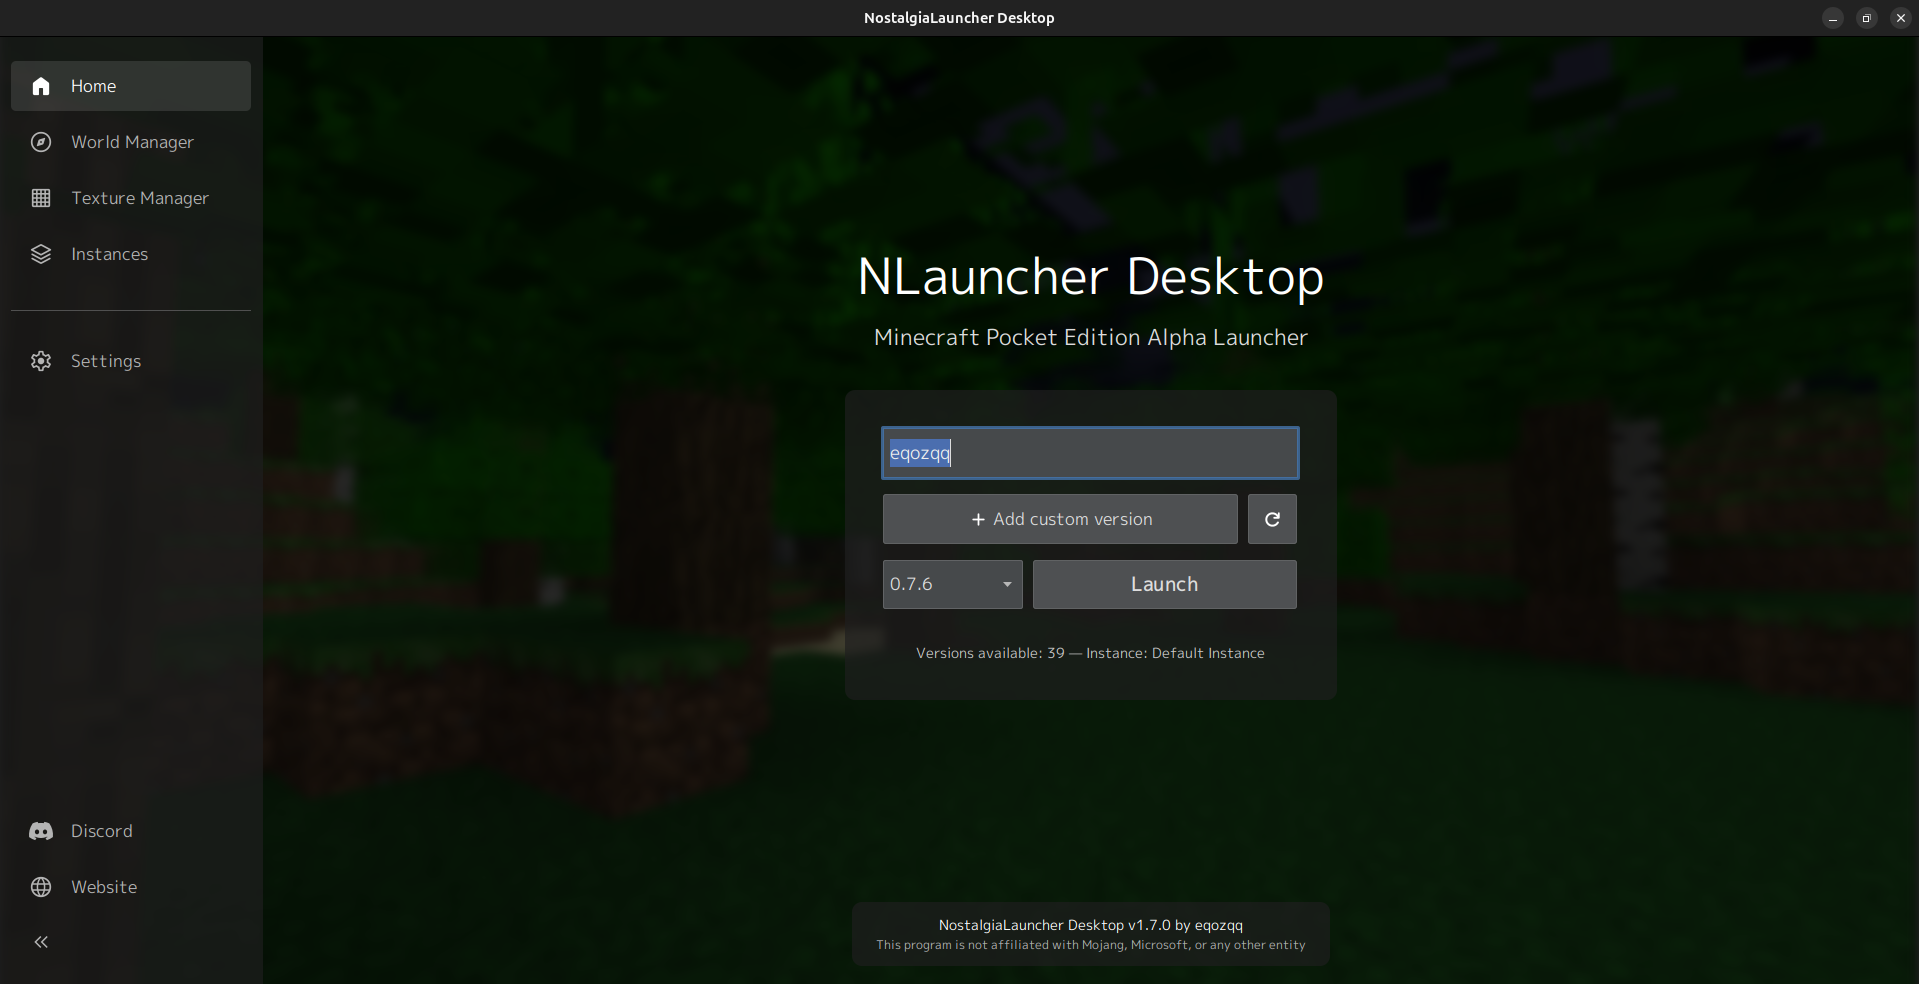
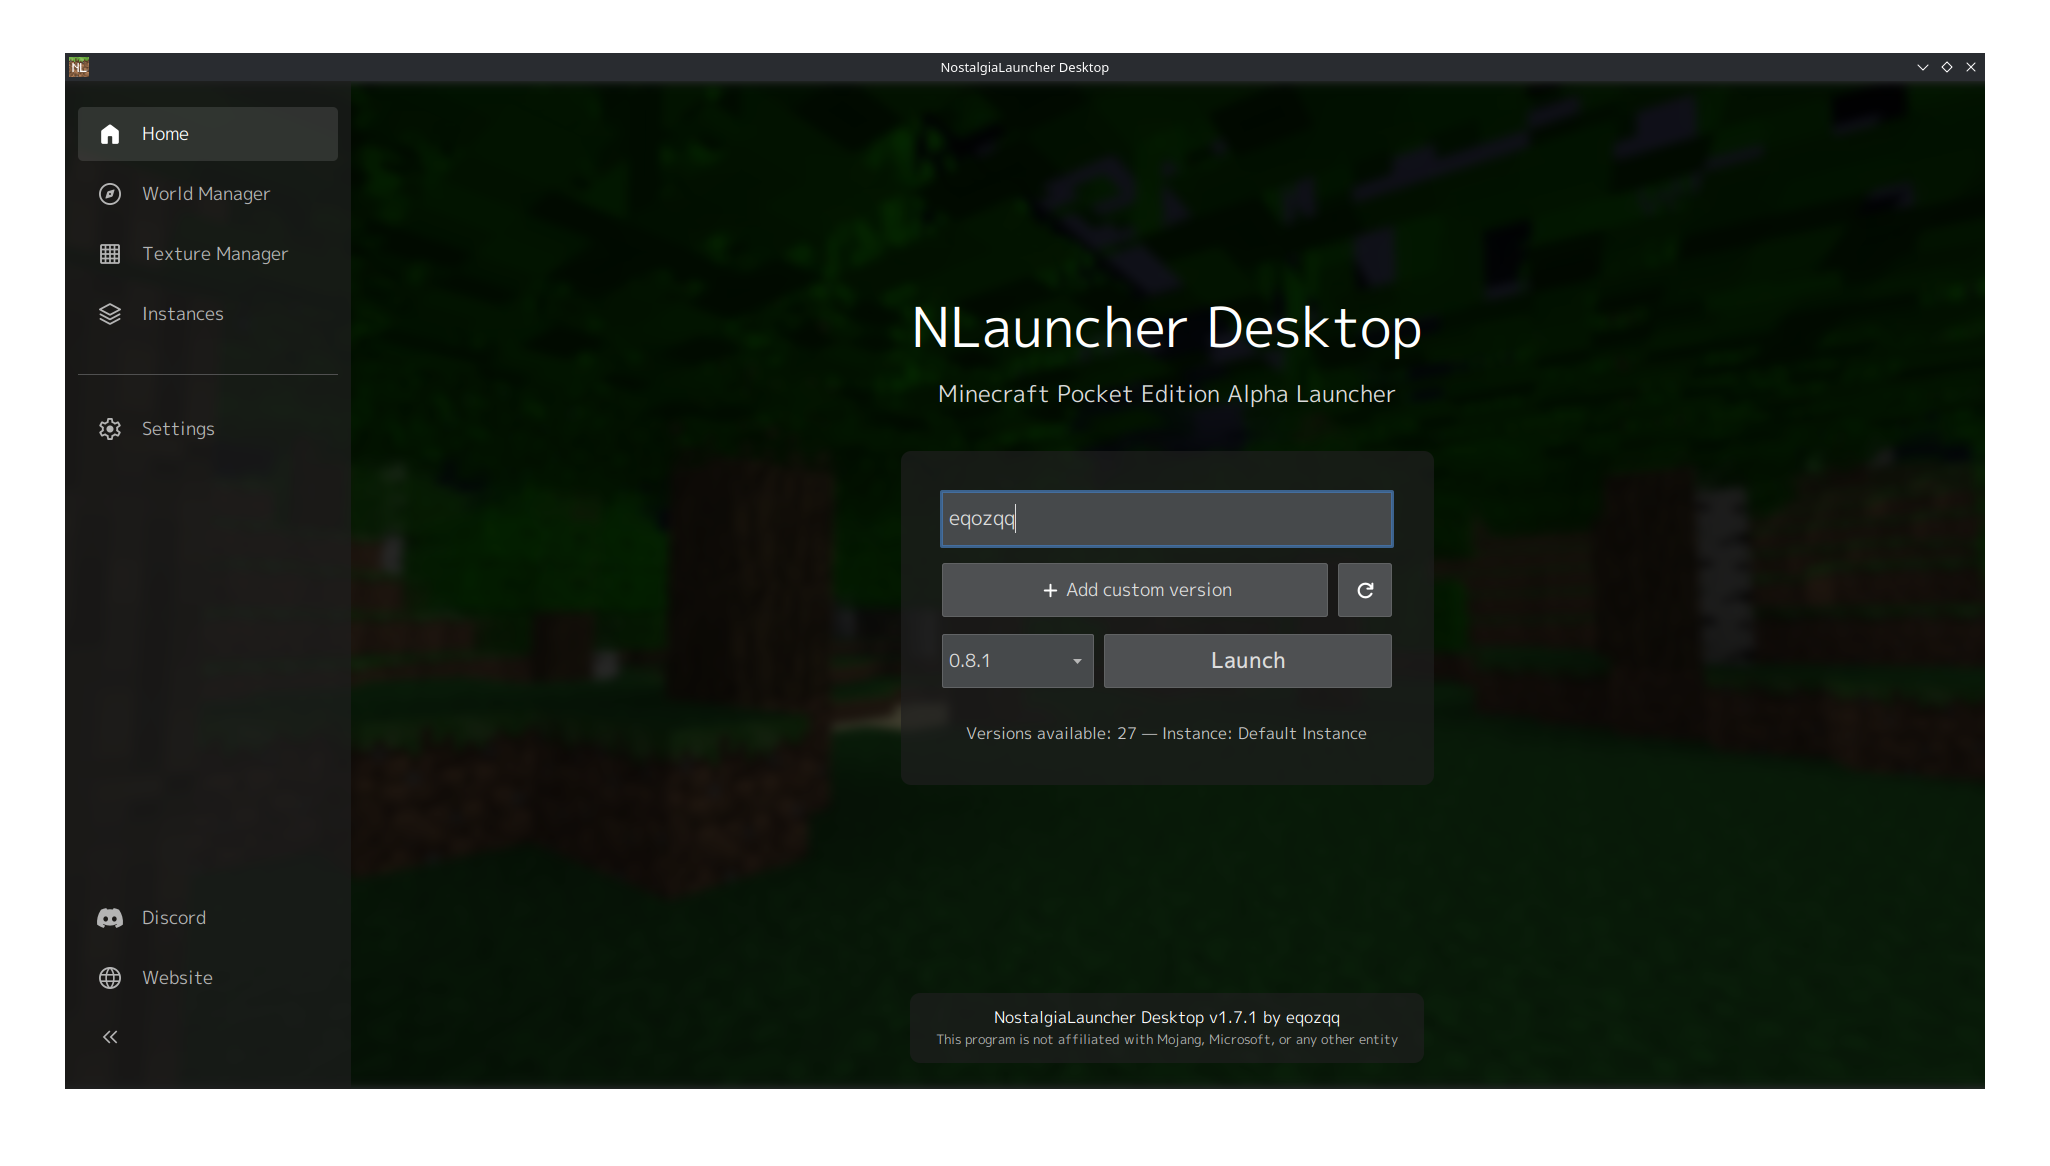
1.7.1

diff --git a/src/main/java/net/eqozqq/nostalgialauncherdesktop/TexturesManager/TexturesManagerPanel.java b/src/main/java/net/eqozqq/nostalgialauncherdesktop/TexturesManager/TexturesManagerPanel.java
@@ -9,7 +9,6 @@ import java.util.Arrays;
 import java.util.List;
 
 import net.eqozqq.nostalgialauncherdesktop.LocaleManager;
-import net.eqozqq.nostalgialauncherdesktop.StyledDialog;
 import net.eqozqq.nostalgialauncherdesktop.Version;
 import net.eqozqq.nostalgialauncherdesktop.VersionManager;
 import net.eqozqq.nostalgialauncherdesktop.Instances.InstanceManager;
@@ -112,8 +111,10 @@ public class TexturesManagerPanel extends JPanel {
             if (selectedVersion != null) {
                 cardLayout.show(contentPanel, "TEXTURE_PANEL");
             } else {
-                StyledDialog.showMessage(this, localeManager.get("error.noVersionSelected.textures"),
-                        localeManager.get("error.noVersionSelected.title"), JOptionPane.WARNING_MESSAGE);
+                JOptionPane.showMessageDialog(this, 
+                        localeManager.get("error.noVersionSelected.textures"),
+                        localeManager.get("error.noVersionSelected.title"), 
+                        JOptionPane.WARNING_MESSAGE);
             }
         });
 
@@ -202,19 +203,26 @@ public class TexturesManagerPanel extends JPanel {
     private void unpackTextures() {
         String path = archivePathField.getText();
         if (path.isEmpty()) {
-            StyledDialog.showMessage(this, localeManager.get("error.noArchiveSelected.message"),
-                    localeManager.get("error.noArchiveSelected.title"), JOptionPane.WARNING_MESSAGE);
+            JOptionPane.showMessageDialog(this, 
+                    localeManager.get("error.noArchiveSelected.message"),
+                    localeManager.get("error.noArchiveSelected.title"), 
+                    JOptionPane.WARNING_MESSAGE);
             return;
         }
         try {
             File archiveFile = new File(path);
             File versionDir = new File(InstanceManager.getInstance().resolvePath("versions/" + selectedVersion));
             ArchiveExtractor.extract(archiveFile, versionDir);
-            StyledDialog.showMessage(this, localeManager.get("info.texturesInstalled"),
-                    localeManager.get("dialog.success.title"), JOptionPane.INFORMATION_MESSAGE);
+            
+            JOptionPane.showMessageDialog(this, 
+                    localeManager.get("info.texturesInstalled"),
+                    localeManager.get("dialog.success.title"), 
+                    JOptionPane.INFORMATION_MESSAGE);
         } catch (Exception ex) {
-            StyledDialog.showMessage(this, localeManager.get("error.installTexturesFailed", ex.getMessage()),
-                    localeManager.get("dialog.error.title"), JOptionPane.ERROR_MESSAGE);
+            JOptionPane.showMessageDialog(this, 
+                    localeManager.get("error.installTexturesFailed", ex.getMessage()),
+                    localeManager.get("dialog.error.title"), 
+                    JOptionPane.ERROR_MESSAGE);
             ex.printStackTrace();
         }
     }
@@ -233,13 +241,18 @@ public class TexturesManagerPanel extends JPanel {
                     .orElse(null);
 
             if (targetVersion == null || targetVersion.getUrl().startsWith("file:")) {
-                StyledDialog.showMessage(this, localeManager.get("error.restoreOfficialOnly"),
-                        localeManager.get("error.cannotRestore.title"), JOptionPane.WARNING_MESSAGE);
+                JOptionPane.showMessageDialog(this, 
+                        localeManager.get("error.restoreOfficialOnly"),
+                        localeManager.get("error.cannotRestore.title"), 
+                        JOptionPane.WARNING_MESSAGE);
                 return;
             }
 
-            int choice = StyledDialog.showConfirm(this, localeManager.get("dialog.confirmRestore.message"),
-                    localeManager.get("dialog.confirmRestore.title"), JOptionPane.YES_NO_OPTION);
+            int choice = JOptionPane.showConfirmDialog(this, 
+                    localeManager.get("dialog.confirmRestore.message"),
+                    localeManager.get("dialog.confirmRestore.title"), 
+                    JOptionPane.YES_NO_OPTION);
+            
             if (choice != JOptionPane.YES_OPTION)
                 return;
 
@@ -274,13 +287,15 @@ public class TexturesManagerPanel extends JPanel {
                     progressMonitor.close();
                     try {
                         get();
-                        StyledDialog.showMessage(TexturesManagerPanel.this,
-                                localeManager.get("info.restoreSuccess"), localeManager.get("dialog.success.title"),
+                        JOptionPane.showMessageDialog(TexturesManagerPanel.this,
+                                localeManager.get("info.restoreSuccess"), 
+                                localeManager.get("dialog.success.title"),
                                 JOptionPane.INFORMATION_MESSAGE);
                     } catch (Exception ex) {
-                        StyledDialog.showMessage(TexturesManagerPanel.this,
+                        JOptionPane.showMessageDialog(TexturesManagerPanel.this,
                                 localeManager.get("error.restoreFailed", ex.getMessage()),
-                                localeManager.get("dialog.error.title"), JOptionPane.ERROR_MESSAGE);
+                                localeManager.get("dialog.error.title"), 
+                                JOptionPane.ERROR_MESSAGE);
                         ex.printStackTrace();
                     }
                 }
@@ -288,8 +303,10 @@ public class TexturesManagerPanel extends JPanel {
             worker.execute();
 
         } catch (Exception ex) {
-            StyledDialog.showMessage(this, localeManager.get("error.restoreFailed", ex.getMessage()),
-                    localeManager.get("dialog.error.title"), JOptionPane.ERROR_MESSAGE);
+            JOptionPane.showMessageDialog(this, 
+                    localeManager.get("error.restoreFailed", ex.getMessage()),
+                    localeManager.get("dialog.error.title"), 
+                    JOptionPane.ERROR_MESSAGE);
             ex.printStackTrace();
         }
     }

diff --git a/src/main/java/net/eqozqq/nostalgialauncherdesktop/WorldManager/WorldsManagerPanel.java b/src/main/java/net/eqozqq/nostalgialauncherdesktop/WorldManager/WorldsManagerPanel.java
@@ -21,7 +21,6 @@ import java.util.Date;
 import java.util.zip.ZipEntry;
 import java.util.zip.ZipOutputStream;
 import net.eqozqq.nostalgialauncherdesktop.LocaleManager;
-import net.eqozqq.nostalgialauncherdesktop.StyledDialog;
 import net.eqozqq.nostalgialauncherdesktop.Instances.InstanceManager;
 import org.apache.commons.io.FileUtils;
 import org.spout.nbt.CompoundTag;
@@ -198,7 +197,7 @@ public class WorldsManagerPanel extends JPanel {
         copySeedButton.addActionListener(e -> {
             StringSelection stringSelection = new StringSelection(seedField.getText());
             Toolkit.getDefaultToolkit().getSystemClipboard().setContents(stringSelection, null);
-            StyledDialog.showMessage(this, localeManager.get("info.seedCopied.message"),
+            JOptionPane.showMessageDialog(this, localeManager.get("info.seedCopied.message"),
                     localeManager.get("dialog.success.title"), JOptionPane.INFORMATION_MESSAGE);
         });
         panel.add(copySeedButton, gbc);
@@ -331,7 +330,7 @@ public class WorldsManagerPanel extends JPanel {
         } catch (Exception e) {
             e.printStackTrace();
             infoPanel.setVisible(false);
-            StyledDialog.showMessage(this, localeManager.get("error.readWorldData"),
+            JOptionPane.showMessageDialog(this, localeManager.get("error.readWorldData"),
                     localeManager.get("dialog.error.title"), JOptionPane.ERROR_MESSAGE);
         }
     }
@@ -379,14 +378,14 @@ public class WorldsManagerPanel extends JPanel {
             writeLevelDat(rootTag, levelDat);
 
             populateInfoPanel();
-            StyledDialog.showMessage(this, localeManager.get("info.worldSaved"),
+            JOptionPane.showMessageDialog(this, localeManager.get("info.worldSaved"),
                     localeManager.get("dialog.success.title"), JOptionPane.INFORMATION_MESSAGE);
 
         } catch (NumberFormatException ex) {
-            StyledDialog.showMessage(this, localeManager.get("error.invalidNumberFormat"),
+            JOptionPane.showMessageDialog(this, localeManager.get("error.invalidNumberFormat"),
                     localeManager.get("dialog.error.title"), JOptionPane.ERROR_MESSAGE);
         } catch (IOException ex) {
-            StyledDialog.showMessage(this, localeManager.get("error.saveWorldData", ex.getMessage()),
+            JOptionPane.showMessageDialog(this, localeManager.get("error.saveWorldData", ex.getMessage()),
                     localeManager.get("dialog.error.title"), JOptionPane.ERROR_MESSAGE);
             ex.printStackTrace();
         }
@@ -430,19 +429,25 @@ public class WorldsManagerPanel extends JPanel {
         if (selectedWorld == null)
             return;
 
-        String newName = StyledDialog.showInput(this, localeManager.get("dialog.renameFolder.message"),
-                localeManager.get("dialog.renameFolder.title"), JOptionPane.QUESTION_MESSAGE, selectedWorld.getName());
+        String newName = (String) JOptionPane.showInputDialog(this, 
+                localeManager.get("dialog.renameFolder.message"),
+                localeManager.get("dialog.renameFolder.title"), 
+                JOptionPane.QUESTION_MESSAGE, 
+                null, 
+                null, 
+                selectedWorld.getName());
+        
         if (newName != null && !newName.trim().isEmpty() && !newName.equals(selectedWorld.getName())) {
             File newFile = new File(selectedWorld.getParent(), newName.trim());
             if (newFile.exists()) {
-                StyledDialog.showMessage(this, localeManager.get("error.folderExists"),
+                JOptionPane.showMessageDialog(this, localeManager.get("error.folderExists"),
                         localeManager.get("dialog.error.title"), JOptionPane.ERROR_MESSAGE);
                 return;
             }
             if (selectedWorld.renameTo(newFile)) {
                 loadWorlds();
             } else {
-                StyledDialog.showMessage(this, localeManager.get("error.renameFolderFailed"),
+                JOptionPane.showMessageDialog(this, localeManager.get("error.renameFolderFailed"),
                         localeManager.get("dialog.error.title"), JOptionPane.ERROR_MESSAGE);
             }
         }
@@ -489,10 +494,10 @@ public class WorldsManagerPanel extends JPanel {
 
         try {
             zipDirectory(selectedWorld, zipFile);
-            StyledDialog.showMessage(this, localeManager.get("info.backupSuccess", zipFile.getAbsolutePath()),
+            JOptionPane.showMessageDialog(this, localeManager.get("info.backupSuccess", zipFile.getAbsolutePath()),
                     localeManager.get("dialog.success.title"), JOptionPane.INFORMATION_MESSAGE);
         } catch (IOException ex) {
-            StyledDialog.showMessage(this, localeManager.get("error.backupFailed", ex.getMessage()),
+            JOptionPane.showMessageDialog(this, localeManager.get("error.backupFailed", ex.getMessage()),
                     localeManager.get("dialog.error.title"), JOptionPane.ERROR_MESSAGE);
             ex.printStackTrace();
         }
@@ -503,7 +508,7 @@ public class WorldsManagerPanel extends JPanel {
         if (selectedWorld == null)
             return;
 
-        int response = StyledDialog.showConfirm(this,
+        int response = JOptionPane.showConfirmDialog(this,
                 localeManager.get("dialog.deleteWorld.message", selectedWorld.getName()),
                 localeManager.get("dialog.deleteWorld.title"),
                 JOptionPane.YES_NO_OPTION,
@@ -514,7 +519,7 @@ public class WorldsManagerPanel extends JPanel {
                 FileUtils.deleteDirectory(selectedWorld);
                 loadWorlds();
             } catch (IOException ex) {
-                StyledDialog.showMessage(this, localeManager.get("error.deleteWorldFailed", ex.getMessage()),
+                JOptionPane.showMessageDialog(this, localeManager.get("error.deleteWorldFailed", ex.getMessage()),
                         localeManager.get("dialog.error.title"), JOptionPane.ERROR_MESSAGE);
             }
         }

diff --git a/src/main/java/net/eqozqq/nostalgialauncherdesktop/Instances/InstancesPanel.java b/src/main/java/net/eqozqq/nostalgialauncherdesktop/Instances/InstancesPanel.java
@@ -7,7 +7,6 @@ import java.io.InputStream;
 import java.util.List;
 
 import net.eqozqq.nostalgialauncherdesktop.LocaleManager;
-import net.eqozqq.nostalgialauncherdesktop.StyledDialog;
 
 public class InstancesPanel extends JPanel {
     private final LocaleManager localeManager;
@@ -105,7 +104,6 @@ public class InstancesPanel extends JPanel {
                 return Font.createFont(Font.TRUETYPE_FONT, fontStream).deriveFont(style, size);
             }
         } catch (Exception e) {
-            e.printStackTrace();
         }
         return new Font("SansSerif", style, (int) size);
     }
@@ -144,17 +142,19 @@ public class InstancesPanel extends JPanel {
     }
 
     private void createInstance() {
-        String name = StyledDialog.showInput(this, localeManager.get("dialog.instance.addPrompt"),
-                localeManager.get("dialog.instances.title"), JOptionPane.PLAIN_MESSAGE);
+        String name = JOptionPane.showInputDialog(this, 
+                localeManager.get("dialog.instance.addPrompt"),
+                localeManager.get("dialog.instances.title"), 
+                JOptionPane.PLAIN_MESSAGE);
+        
         if (name != null && !name.trim().isEmpty()) {
             try {
                 InstanceManager.getInstance().createInstance(name.trim());
                 reload();
-            } catch (IllegalArgumentException e) {
-                StyledDialog.showMessage(this, e.getMessage(), localeManager.get("dialog.error.title"),
-                        JOptionPane.ERROR_MESSAGE);
-            } catch (RuntimeException e) {
-                StyledDialog.showMessage(this, e.getMessage(), localeManager.get("dialog.error.title"),
+            } catch (Exception e) {
+                JOptionPane.showMessageDialog(this, 
+                        e.getMessage(), 
+                        localeManager.get("dialog.error.title"),
                         JOptionPane.ERROR_MESSAGE);
             }
         }
@@ -162,8 +162,7 @@ public class InstancesPanel extends JPanel {
 
     private void selectInstance() {
         String selected = instancesList.getSelectedValue();
-        if (selected == null)
-            return;
+        if (selected == null) return;
 
         String cleanName = selected.replace(" (Active)", "");
         if (cleanName.equals(InstanceManager.getInstance().getActiveInstance())) {
@@ -179,18 +178,22 @@ public class InstancesPanel extends JPanel {
 
     private void deleteInstance() {
         String selected = instancesList.getSelectedValue();
-        if (selected == null)
-            return;
+        if (selected == null) return;
 
         String cleanName = selected.replace(" (Active)", "");
         if (cleanName.equals(InstanceManager.getDefaultInstanceName())) {
-            StyledDialog.showMessage(this, localeManager.get("error.instance.reservedName"),
-                    localeManager.get("dialog.error.title"), JOptionPane.ERROR_MESSAGE);
+            JOptionPane.showMessageDialog(this, 
+                    localeManager.get("error.instance.reservedName"),
+                    localeManager.get("dialog.error.title"), 
+                    JOptionPane.ERROR_MESSAGE);
             return;
         }
 
-        int confirm = StyledDialog.showConfirm(this, localeManager.get("dialog.instance.deleteWarning"),
-                localeManager.get("dialog.warning.title"), JOptionPane.YES_NO_OPTION);
+        int confirm = JOptionPane.showConfirmDialog(this, 
+                localeManager.get("dialog.instance.deleteWarning"),
+                localeManager.get("dialog.warning.title"), 
+                JOptionPane.YES_NO_OPTION);
+        
         if (confirm == JOptionPane.YES_OPTION) {
             try {
                 InstanceManager.getInstance().deleteInstance(cleanName);
@@ -198,11 +201,10 @@ public class InstancesPanel extends JPanel {
                 if (onInstanceChanged != null) {
                     onInstanceChanged.run();
                 }
-            } catch (IllegalArgumentException e) {
-                StyledDialog.showMessage(this, e.getMessage(), localeManager.get("dialog.error.title"),
-                        JOptionPane.ERROR_MESSAGE);
-            } catch (RuntimeException e) {
-                StyledDialog.showMessage(this, e.getMessage(), localeManager.get("dialog.error.title"),
+            } catch (Exception e) {
+                JOptionPane.showMessageDialog(this, 
+                        e.getMessage(), 
+                        localeManager.get("dialog.error.title"),
                         JOptionPane.ERROR_MESSAGE);
             }
         }

diff --git a/src/main/java/net/eqozqq/nostalgialauncherdesktop/NostalgiaLauncherDesktop.java b/src/main/java/net/eqozqq/nostalgialauncherdesktop/NostalgiaLauncherDesktop.java
@@ -80,7 +80,7 @@ public class NostalgiaLauncherDesktop extends JFrame {
     private String themeName;
     private String backgroundMode;
     private String customTranslationPath;
-    private static final String CURRENT_VERSION = "1.7.0";
+    private static final String CURRENT_VERSION = "1.7.1";
 
     private static final int COMPONENT_WIDTH = 300;
     private static final String DEFAULT_VERSIONS_URL = "https://raw.githubusercontent.com/NLauncher/components/main/versions.json";
@@ -339,8 +339,6 @@ public class NostalgiaLauncherDesktop extends JFrame {
             FlatLaf.setUseNativeWindowDecorations(false);
             UIManager.put("TitlePane.useWindowDecorations", Boolean.FALSE);
             UIManager.setLookAndFeel(newTheme);
-            StyledDialog.setDarkMode(isDark);
-            StyledDialog.installDefaults();
             SwingUtilities.updateComponentTreeUI(this);
         } catch (UnsupportedLookAndFeelException e) {
             e.printStackTrace();

diff --git a/src/main/java/net/eqozqq/nostalgialauncherdesktop/HomePanel.java b/src/main/java/net/eqozqq/nostalgialauncherdesktop/HomePanel.java
@@ -286,7 +286,7 @@ public class HomePanel extends JPanel {
         infoPanel.setBorder(BorderFactory.createEmptyBorder((int) (10 * scaleFactor), (int) (20 * scaleFactor),
                 (int) (10 * scaleFactor), (int) (20 * scaleFactor)));
 
-        JLabel versionLabel = new JLabel("NostalgiaLauncher Desktop v1.7.0 by eqozqq");
+        JLabel versionLabel = new JLabel("NostalgiaLauncher Desktop v1.7.1 by eqozqq");
         versionLabel.setForeground(isDark ? Color.WHITE : Color.BLACK);
         versionLabel.setFont(getRegularFont(Font.PLAIN, (float) (12 * scaleFactor)));
         versionLabel.setAlignmentX(Component.CENTER_ALIGNMENT);

diff --git a/src/main/java/net/eqozqq/nostalgialauncherdesktop/Instances/InstanceManager.java b/src/main/java/net/eqozqq/nostalgialauncherdesktop/Instances/InstanceManager.java
@@ -75,7 +75,8 @@ public class InstanceManager {
         if (name == null || name.trim().isEmpty() || DEFAULT_INSTANCE.equals(name.trim())) {
             throw new IllegalArgumentException("Invalid instance name.");
         }
-        File newInstanceDir = new File(INSTANCES_DIR, name.trim());
+        File root = getInstancesRoot();
+        File newInstanceDir = new File(root, name.trim());
         if (newInstanceDir.exists()) {
             throw new IllegalArgumentException("Instance already exists: " + name);
         }

diff --git a/src/main/java/net/eqozqq/nostalgialauncherdesktop/ErrorDialog.java b/src/main/java/net/eqozqq/nostalgialauncherdesktop/ErrorDialog.java
@@ -7,7 +7,7 @@ import java.io.PrintWriter;
 import java.io.StringWriter;
 
 public class ErrorDialog {
-    private static final String APP_VERSION = "1.7.0";
+    private static final String APP_VERSION = "1.7.1";
 
     public static void showError(Component parent, String title, String message, Throwable exception,
             LocaleManager localeManager) {
